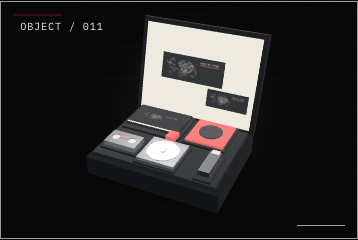
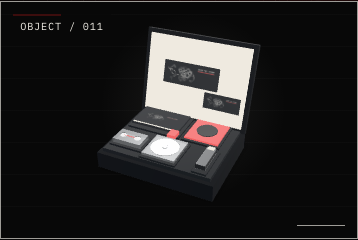
fix: use supported collector mobile camera

Changed region(s): [[0.2458, 0.0583, 0.7682, 0.875]]

diff --git a/.superpowers/sdd/task-3-report.md b/.superpowers/sdd/task-3-report.md
@@ -9,7 +9,7 @@ Collector correction implemented; clean integration verification remains pending
 - Reused the governed exact reverse identity raster for the lid card and zine mark; no identity was retyped or generated.
 - Increased product recognizability with a dark zine cover, smoke cassette/reel cues, smoke CD case plus silver disc, data-key connector cue and a Signal Red archive-sleeve stripe.
 - Kept hinge, dimensions, clearances and manufacturing internals explicitly provisional/non-machinable in source data, node extras and the build report.
-- Tuned desktop/mobile default cameras and updated only the collector viewer fields in `data/merch.json`.
+- Tuned desktop/mobile default cameras; the collector commit deliberately deferred `data/merch.json` to the combined catalog integrator.
 - Regenerated the deterministic GLB, validator/inspection/build reports, six browser views, readability crop and approved-open source comparison.
 
 ## TDD evidence
@@ -24,7 +24,7 @@ Initial GREEN verification (superseded by the Important review below):
 
 ```text
 node --test site/tools/merch-3d/collector-box-001.test.mjs
-4 tests passed, 0 failed
+3 tests passed, 1 catalog-binding test failed pending deferred `merch.json` integration
 
 node site/tools/merch-3d/build-collector-box-001.mjs --verify
 verified 2bf98876e57104cd434a6236b6c8ecc36b20fd7ad620832cdffda148e03d1249
@@ -54,14 +54,28 @@ Fresh correction evidence:
 
 ```text
 node --test site/tools/merch-3d/collector-box-001.test.mjs
-4 tests passed, 0 failed
+3 tests passed, 1 catalog-binding test failed on the exact scoped commit before combined catalog integration
 
 node site/tools/merch-3d/build-collector-box-001.mjs --verify
 verified 886f26820f6dcd5f6d4e2cc32d8a4840db2761d6d499191dae12b441c3b230e2
 271352 bytes, 934 runtime triangles, 9 runtime draw calls, 9 unique mesh primitives
 
 npm run build
-POVKH LAB site built: 345 files
+POVKH LAB site built: 342 files
 ```
 
 Khronos validation reports 0 errors and 0 warnings. Regenerated browser QA reports every semantic gate true across six required views, including mobile interior, separate archive-red and exact-identity contrast gates.
+
+## Supported mobile field-of-view correction
+
+Integration exposed that the viewer attribute declared `34deg` while `model-viewer.getFieldOfView()` clamped it to `30deg`. A new regression now compares every declared desktop/mobile field of view with the effective runtime value.
+
+The supported mobile camera records are:
+
+- default: orbit `25deg 58deg 145%`, target `auto 0.075m auto`, field of view `30deg`;
+- front: orbit `0deg 56deg 145%`, target `auto 0.075m auto`, field of view `30deg`;
+- rear: orbit `180deg 58deg 148%`, target `auto 0.075m auto`, field of view `30deg`.
+
+The radii did not require an increase: the former captures were already rendered at the runtime-clamped 30 degrees. With 30 degrees governed explicitly, regenerated margins improved to `[96, 25, 96, 37]` for mobile default and `[112, 31, 112, 51]` for mobile front, while interior, separate archive-red and identity-contrast gates remained true.
+
+This scoped correction does not edit `merch.json`. Captures were regenerated against the built page with only its generated/untracked collector mobile FOV changed to the pending integration value. Exact-commit collector verification therefore remains 3/4 until the catalog integrator changes the collector mobile FOV from 34 to 30 degrees; the other three collector tests, deterministic builder verification and capture gates pass. After the catalog owner applied that working-tree integration value, the combined-worktree collector run passed 4/4.
